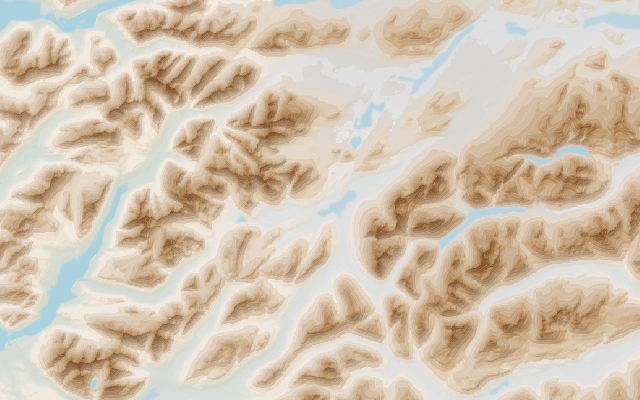
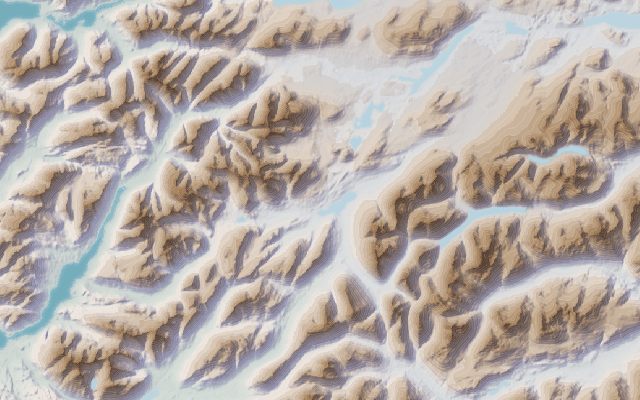
Tint the topology shadows blue-violet and ease the grey hillshade
Claude-Session: https://claude.ai/code/session_01Gwmi3WjaBnCt1hHhLPvCfH

diff --git a/styling/Shadow Tint.qml b/styling/Shadow Tint.qml
@@ -1,0 +1,171 @@
+<!DOCTYPE qgis PUBLIC 'http://mrcc.com/qgis.dtd' 'SYSTEM'>
+<qgis maxScale="0" minScale="1e+08" autoRefreshTime="0" styleCategories="AllStyleCategories" autoRefreshMode="Disabled" version="3.44.15-Solothurn" hasScaleBasedVisibilityFlag="0">
+  <flags>
+    <Identifiable>1</Identifiable>
+    <Removable>1</Removable>
+    <Searchable>1</Searchable>
+    <Private>0</Private>
+  </flags>
+  <temporal enabled="0" fetchMode="0" mode="0" bandNumber="1">
+    <fixedRange>
+      <start></start>
+      <end></end>
+    </fixedRange>
+  </temporal>
+  <elevation enabled="0" mode="RepresentsElevationSurface" zoffset="0" symbology="Line" band="1" zscale="1">
+    <data-defined-properties>
+      <Option type="Map">
+        <Option name="name" value="" type="QString"/>
+        <Option name="properties"/>
+        <Option name="type" value="collection" type="QString"/>
+      </Option>
+    </data-defined-properties>
+    <profileLineSymbol>
+      <symbol name="" alpha="1" clip_to_extent="1" force_rhr="0" type="line" frame_rate="10" is_animated="0">
+        <data_defined_properties>
+          <Option type="Map">
+            <Option name="name" value="" type="QString"/>
+            <Option name="properties"/>
+            <Option name="type" value="collection" type="QString"/>
+          </Option>
+        </data_defined_properties>
+        <layer enabled="1" id="{12b849e4-0771-42eb-8eb2-41b5e0f1c7aa}" pass="0" class="SimpleLine" locked="0">
+          <Option type="Map">
+            <Option name="align_dash_pattern" value="0" type="QString"/>
+            <Option name="capstyle" value="square" type="QString"/>
+            <Option name="customdash" value="5;2" type="QString"/>
+            <Option name="customdash_map_unit_scale" value="3x:0,0,0,0,0,0" type="QString"/>
+            <Option name="customdash_unit" value="MM" type="QString"/>
+            <Option name="dash_pattern_offset" value="0" type="QString"/>
+            <Option name="dash_pattern_offset_map_unit_scale" value="3x:0,0,0,0,0,0" type="QString"/>
+            <Option name="dash_pattern_offset_unit" value="MM" type="QString"/>
+            <Option name="draw_inside_polygon" value="0" type="QString"/>
+            <Option name="joinstyle" value="bevel" type="QString"/>
+            <Option name="line_color" value="231,113,72,255,rgb:0.9058824,0.4431373,0.2823529,1" type="QString"/>
+            <Option name="line_style" value="solid" type="QString"/>
+            <Option name="line_width" value="0.6" type="QString"/>
+            <Option name="line_width_unit" value="MM" type="QString"/>
+            <Option name="offset" value="0" type="QString"/>
+            <Option name="offset_map_unit_scale" value="3x:0,0,0,0,0,0" type="QString"/>
+            <Option name="offset_unit" value="MM" type="QString"/>
+            <Option name="ring_filter" value="0" type="QString"/>
+            <Option name="trim_distance_end" value="0" type="QString"/>
+            <Option name="trim_distance_end_map_unit_scale" value="3x:0,0,0,0,0,0" type="QString"/>
+            <Option name="trim_distance_end_unit" value="MM" type="QString"/>
+            <Option name="trim_distance_start" value="0" type="QString"/>
+            <Option name="trim_distance_start_map_unit_scale" value="3x:0,0,0,0,0,0" type="QString"/>
+            <Option name="trim_distance_start_unit" value="MM" type="QString"/>
+            <Option name="tweak_dash_pattern_on_corners" value="0" type="QString"/>
+            <Option name="use_custom_dash" value="0" type="QString"/>
+            <Option name="width_map_unit_scale" value="3x:0,0,0,0,0,0" type="QString"/>
+          </Option>
+          <data_defined_properties>
+            <Option type="Map">
+              <Option name="name" value="" type="QString"/>
+              <Option name="properties"/>
+              <Option name="type" value="collection" type="QString"/>
+            </Option>
+          </data_defined_properties>
+        </layer>
+      </symbol>
+    </profileLineSymbol>
+    <profileFillSymbol>
+      <symbol name="" alpha="1" clip_to_extent="1" force_rhr="0" type="fill" frame_rate="10" is_animated="0">
+        <data_defined_properties>
+          <Option type="Map">
+            <Option name="name" value="" type="QString"/>
+            <Option name="properties"/>
+            <Option name="type" value="collection" type="QString"/>
+          </Option>
+        </data_defined_properties>
+        <layer enabled="1" id="{186e7203-363d-4785-ba43-6aacaaf8b903}" pass="0" class="SimpleFill" locked="0">
+          <Option type="Map">
+            <Option name="border_width_map_unit_scale" value="3x:0,0,0,0,0,0" type="QString"/>
+            <Option name="color" value="231,113,72,255,rgb:0.9058824,0.4431373,0.2823529,1" type="QString"/>
+            <Option name="joinstyle" value="bevel" type="QString"/>
+            <Option name="offset" value="0,0" type="QString"/>
+            <Option name="offset_map_unit_scale" value="3x:0,0,0,0,0,0" type="QString"/>
+            <Option name="offset_unit" value="MM" type="QString"/>
+            <Option name="outline_color" value="35,35,35,255,rgb:0.1372549,0.1372549,0.1372549,1" type="QString"/>
+            <Option name="outline_style" value="no" type="QString"/>
+            <Option name="outline_width" value="0.26" type="QString"/>
+            <Option name="outline_width_unit" value="MM" type="QString"/>
+            <Option name="style" value="solid" type="QString"/>
+          </Option>
+          <data_defined_properties>
+            <Option type="Map">
+              <Option name="name" value="" type="QString"/>
+              <Option name="properties"/>
+              <Option name="type" value="collection" type="QString"/>
+            </Option>
+          </data_defined_properties>
+        </layer>
+      </symbol>
+    </profileFillSymbol>
+  </elevation>
+  <customproperties>
+    <Option type="Map">
+      <Option name="identify/format" value="Value" type="QString"/>
+    </Option>
+  </customproperties>
+  <mapTip enabled="1"></mapTip>
+  <pipe-data-defined-properties>
+    <Option type="Map">
+      <Option name="name" value="" type="QString"/>
+      <Option name="properties"/>
+      <Option name="type" value="collection" type="QString"/>
+    </Option>
+  </pipe-data-defined-properties>
+  <pipe>
+    <provider>
+      <resampling enabled="false" zoomedOutResamplingMethod="nearestNeighbour" maxOversampling="2" zoomedInResamplingMethod="nearestNeighbour"/>
+    </provider>
+    <rasterrenderer classificationMax="255" alphaBand="-1" nodataColor="" type="singlebandpseudocolor" band="1" classificationMin="0" opacity="1">
+      <minMaxOrigin>
+        <limits>None</limits>
+        <extent>WholeRaster</extent>
+        <statAccuracy>Estimated</statAccuracy>
+        <cumulativeCutLower>0.02</cumulativeCutLower>
+        <cumulativeCutUpper>0.98</cumulativeCutUpper>
+        <stdDevFactor>2</stdDevFactor>
+      </minMaxOrigin>
+      <rastershader>
+        <colorrampshader clip="0" minimumValue="0" labelPrecision="6" colorRampType="INTERPOLATED" maximumValue="255" classificationMode="1">
+          <colorramp name="[source]" type="gradient">
+            <Option type="Map">
+              <Option name="color1" value="69,116,40,255,rgb:0.2705882,0.454902,0.1568627,1" type="QString"/>
+              <Option name="color2" value="188,220,60,255,rgb:0.7372549,0.8627451,0.2352941,1" type="QString"/>
+              <Option name="direction" value="ccw" type="QString"/>
+              <Option name="discrete" value="0" type="QString"/>
+              <Option name="rampType" value="gradient" type="QString"/>
+              <Option name="spec" value="rgb" type="QString"/>
+            </Option>
+          </colorramp>
+          <item alpha="255" color="#a4aedc" value="0" label="0"/>
+          <item alpha="255" color="#c0c8e8" value="80" label="80"/>
+          <item alpha="255" color="#e2e6f4" value="140" label="140"/>
+          <item alpha="255" color="#f8f9fd" value="190" label="190"/>
+          <item alpha="255" color="#ffffff" value="255" label="255"/>
+          <rampLegendSettings orientation="2" minimumLabel="" direction="0" maximumLabel="" prefix="" suffix="" useContinuousLegend="1">
+            <numericFormat id="basic">
+              <Option type="Map">
+                <Option name="decimal_separator" type="invalid"/>
+                <Option name="decimals" value="6" type="int"/>
+                <Option name="rounding_type" value="0" type="int"/>
+                <Option name="show_plus" value="false" type="bool"/>
+                <Option name="show_thousand_separator" value="true" type="bool"/>
+                <Option name="show_trailing_zeros" value="false" type="bool"/>
+                <Option name="thousand_separator" type="invalid"/>
+              </Option>
+            </numericFormat>
+          </rampLegendSettings>
+        </colorrampshader>
+      </rastershader>
+    </rasterrenderer>
+    <brightnesscontrast gamma="1" contrast="0" brightness="0"/>
+    <huesaturation colorizeBlue="128" colorizeGreen="128" invertColors="0" saturation="0" colorizeStrength="100" colorizeRed="255" grayscaleMode="0" colorizeOn="0"/>
+    <rasterresampler zoomedOutResampler="cubic" maxOversampling="2" zoomedInResampler="cubic"/>
+    <resamplingStage>resamplingFilter</resamplingStage>
+  </pipe>
+  <blendMode>6</blendMode>
+</qgis>

diff --git a/scripts/render_tiles.py b/scripts/render_tiles.py
@@ -28,9 +28,17 @@ TILESETS = {
             "Sea",
             "OSM - Water",
             "merged-hillshade-315",
+            "Shadow Tint",
             "merged-dem",
         ],
         "extra_layers": {
+            # Cool blue-violet in the shadows (multiplied over the DEM colours, so lit slopes
+            # are untouched), from the same shading value as the Imhof style
+            "Shadow Tint": {
+                "type": "raster",
+                "source": "data/imhof-shade-3x.tif",
+                "style": "styling/Shadow Tint.qml",
+            },
             "Sea": {
                 "source": "data/sea.gpkg|layername=sea",
                 "style": "styling/Sea.qml",
@@ -39,6 +47,8 @@ TILESETS = {
         # Styles from styling/ that replace the project's own for these layers.
         # The DEM ramp has extra levels below 200 m (see scripts/lowland_ramp.py).
         "styles": {"merged-dem": "styling/merged-dem.qml"},
+        # The grey hillshade is eased back a little because the tint now shades as well
+        "layer_opacity": {"merged-hillshade-315": 0.6},
         # Sharp coastlines: the project's sea is a coarse polygon that its style blurs. The
         # "Sea" layer (from the DEM, `make data/sea.gpkg`) replaces it. (The forest keeps
         # its soft edge.)
@@ -316,6 +326,9 @@ def main():
         if not ok:
             sys.exit(f"Could not load style {extra['style']}")
         project.addMapLayer(layer)
+
+    for name, opacity in spec.get("layer_opacity", {}).items():
+        project.mapLayersByName(name)[0].setOpacity(opacity)
 
     # Switch off everything, then switch on this tile set's layers.
     root = project.layerTreeRoot()

diff --git a/README.md b/README.md
@@ -17,7 +17,7 @@ first appears at is described under each layer's section further down.
 
 | Layer | Sample |
 |---|---|
-| **Topology** (`topology`)<br><br>Terrain, drawn as hypsometric tints with soft hillshade, 50 m contours and water (forest is its own layer, below). Below 200 m the tints run from pale green to beige so hills show in flat country; above that they step through tan to brown. Zoom 9–13. Data: SRTM-derived DEM, OpenStreetMap. | <img src="docs/samples/topology.png" width="420" alt="Topology"> |
+| **Topology** (`topology`)<br><br>Terrain, drawn as hypsometric tints with soft hillshade tinted blue-violet in the shadows (as in the Imhof style, but lighter), 50 m contours and water (forest is its own layer, below). Below 200 m the tints run from pale green to beige so hills show in flat country; above that they step through tan to brown. Zoom 9–13. Data: SRTM-derived DEM, OpenStreetMap. | <img src="docs/samples/topology.png" width="420" alt="Topology"> |
 | **Imhof style** (`imhof`)<br><br>A second basemap, used instead of the topology: no hypsometric tints, but the relief shaded in colour as Eduard Imhof did, warm cream where the light falls and cool blue-violet in shadow, with the valleys veiled in mist that rises to 914 m. Opaque. Zoom 9–13. Data: derived from the DEM. | <img src="docs/samples/imhof.png" width="420" alt="Imhof style"> |
 | **Forests** (`forests`)<br><br>Woodland as dark green blurred patches, in a transparent overlay so it can be switched off. Blend it with `mix-blend-mode: multiply` (the preview page does) so the hillshade and contours still show through the trees. Zoom 9–13. Data: OpenStreetMap, via the project's `OSM - Forestry` layer. | <img src="docs/samples/forests.png" width="420" alt="Forests"> |
 | **Valley mist** (`mist`)<br><br>A pale blue haze that collects on valley floors in rugged country and thins up the slopes, after Eduard Imhof's aerial perspective: valleys recede and the summits stand out. Strongest zoomed out and fading as you zoom in (gone by zoom 13). Data: derived from the DEM. | <img src="docs/samples/mist.png" width="420" alt="Valley mist"> |
